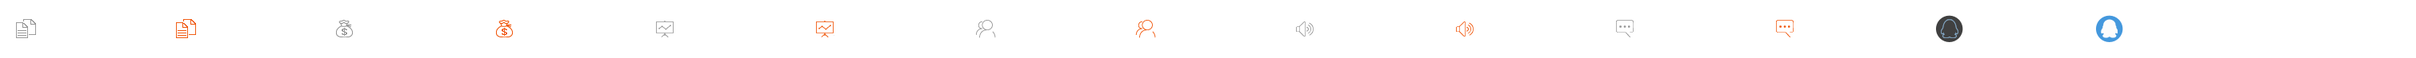
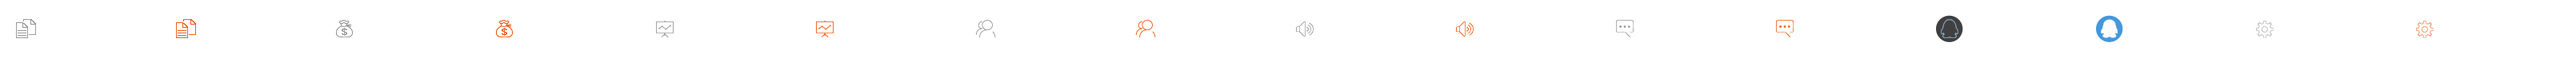
个人中心修改

diff --git a/static/css/store_v2/store.css b/static/css/store_v2/store.css
@@ -191,7 +191,7 @@ body{
     right: 0;
 }
 .customerCenterItemsContainer{
-    width: 138px;
+    width: 142px;
 }
 .customerCenterContainer.off .customerCenterItemsPanel{
     display: none;
@@ -202,14 +202,25 @@ body{
     width: 100%;
     line-height: 150px;
     text-align: center;
-    color: #ffffff;
+    color: #BBBBBB;
     cursor: pointer;
+}
+.customerCenterContainer .customerLogout{
+    display: none;
+    position: relative;
+}
+.customerCenterContainer.expanded .customerLogout{
+    display: block;
+}
+.customerCenterContainer.expanded .normal{
+    display: none;
 }
 .customerCenterButton{
     width: 90px;
     height: 90px;
     float: right;
     background-color: rgba(0, 0, 0, 0.8);
+    font-size: 14px;
 }
 .k-ie8 .customerCenterButton,.k-ie7 .customerCenterButton{
     filter:progid:DXImageTransform.Microsoft.gradient(startColorstr=#cc000000,endColorstr=#cc000000);
@@ -238,12 +249,14 @@ body{
     height: 45px;
     line-height: 45px;
     border-top: 1px solid #2a2a2a;
-    color:#ffffff;
-    padding:0 20px 0 70px;
+    color:#BBBBBB;
+    padding-left: 55px;
     background: url("../../images/store/customerCenterItemIcon.png") no-repeat;
     cursor: pointer;
+    font-size: 14px;
 }.customerCenterItemsContainer li:hover{
      background-color: #101010;
+    color:#EDEDED;
  }
 .customerCenterItemsContainer .cc_orderManagerment div {
     background-position: 0 50%;
@@ -264,12 +277,18 @@ body{
 .customerCenterItemsContainer .cc_message div {
     background-position: -2000px 50%;
 }
+.customerCenterItemsContainer .cc_systemSetup div{
+    background-position: -2800px 50%;
+}
+
 .customerCenterItemsContainer .cc_onlineService div {
     background-position: -2400px 50%;
     border-top: 1px dashed #2a2a2a;
     height: 73px;
     line-height: 73px;
     border-bottom: 1px solid #727272;
+    color: #555555;
+    padding-left: 60px;
 }
 .customerCenterItemsContainer .cc_orderManagerment:hover div {
     background-position: -200px 50%;
@@ -289,8 +308,22 @@ body{
 .customerCenterItemsContainer .cc_message:hover div {
     background-position: -2200px 50%;
 }
+.customerCenterItemsContainer .cc_systemSetup:hover div{
+    background-position: -3000px 50%;
+}
 .customerCenterItemsContainer .cc_onlineService:hover div {
     background-position: -2600px 50%;
+}
+.btn_logout{
+    color:#4C4C4C;
+    position: absolute;
+    bottom: 7px;
+    right: 5px;
+    line-height: 1;
+}
+.btn_logout:hover{
+    color:#EF5509;
+    text-decoration: underline;
 }
 .partnerContainer{
     color:#5F5F5F;

diff --git a/采购商/酒店首页（新）.html b/采购商/酒店首页（新）.html
@@ -27,7 +27,8 @@
 
 <div class="customerCenterContainer off">
     <div class="customerCenterButton">
-        <div>用户中心</div>
+        <div class="normal">用户中心</div>
+        <div class="customerLogout">魏琦 <span class="btn_logout">退出</span></div>
     </div>
     <div class="customerCenterItemsContainer">
         <div class="customerCenterItemsPanel">
@@ -36,9 +37,10 @@
                 <li class="cc_orderManagerment"><div>订单管理</div></li>
                 <li class="cc_e-wallet"><div>电子钱包</div></li>
                 <li class="cc_statisticalReport"><div>统计报表</div></li>
-                <li class="cc_customerService"><div>客户服务</div></li>
+                <li class="cc_customerService"><div>常旅客管理</div></li>
                 <li class="cc_notice"><div>公告</div></li>
                 <li class="cc_message"><div>消息</div></li>
+                <li class="cc_systemSetup"><div>系统设置</div></li>
                 <li class="cc_onlineService"><div>在线客服</div></li>
             </ul>
         </div>
@@ -652,9 +654,11 @@ $(function(){
             {
                 $(".customerCenterContainer").addClass("off");
                 $(".customerCenterItemsPanel").hide();
-                $(this).animate({width:"90px"},200,function(){$(".customerCenterContainer").removeClass("expanded");})
+                $(this).animate({width:"90px"},200);
+                $(".customerCenterContainer").removeClass("expanded");
                 return false;
             }
+            $(".customerCenterContainer").addClass("expanded");
             $(".customerCenterButton").animate({width:"100%"},"fast");
             $(".customerCenterItemsPanel").slideDown("fast");
             $(".customerCenterContainer").removeClass("off");
